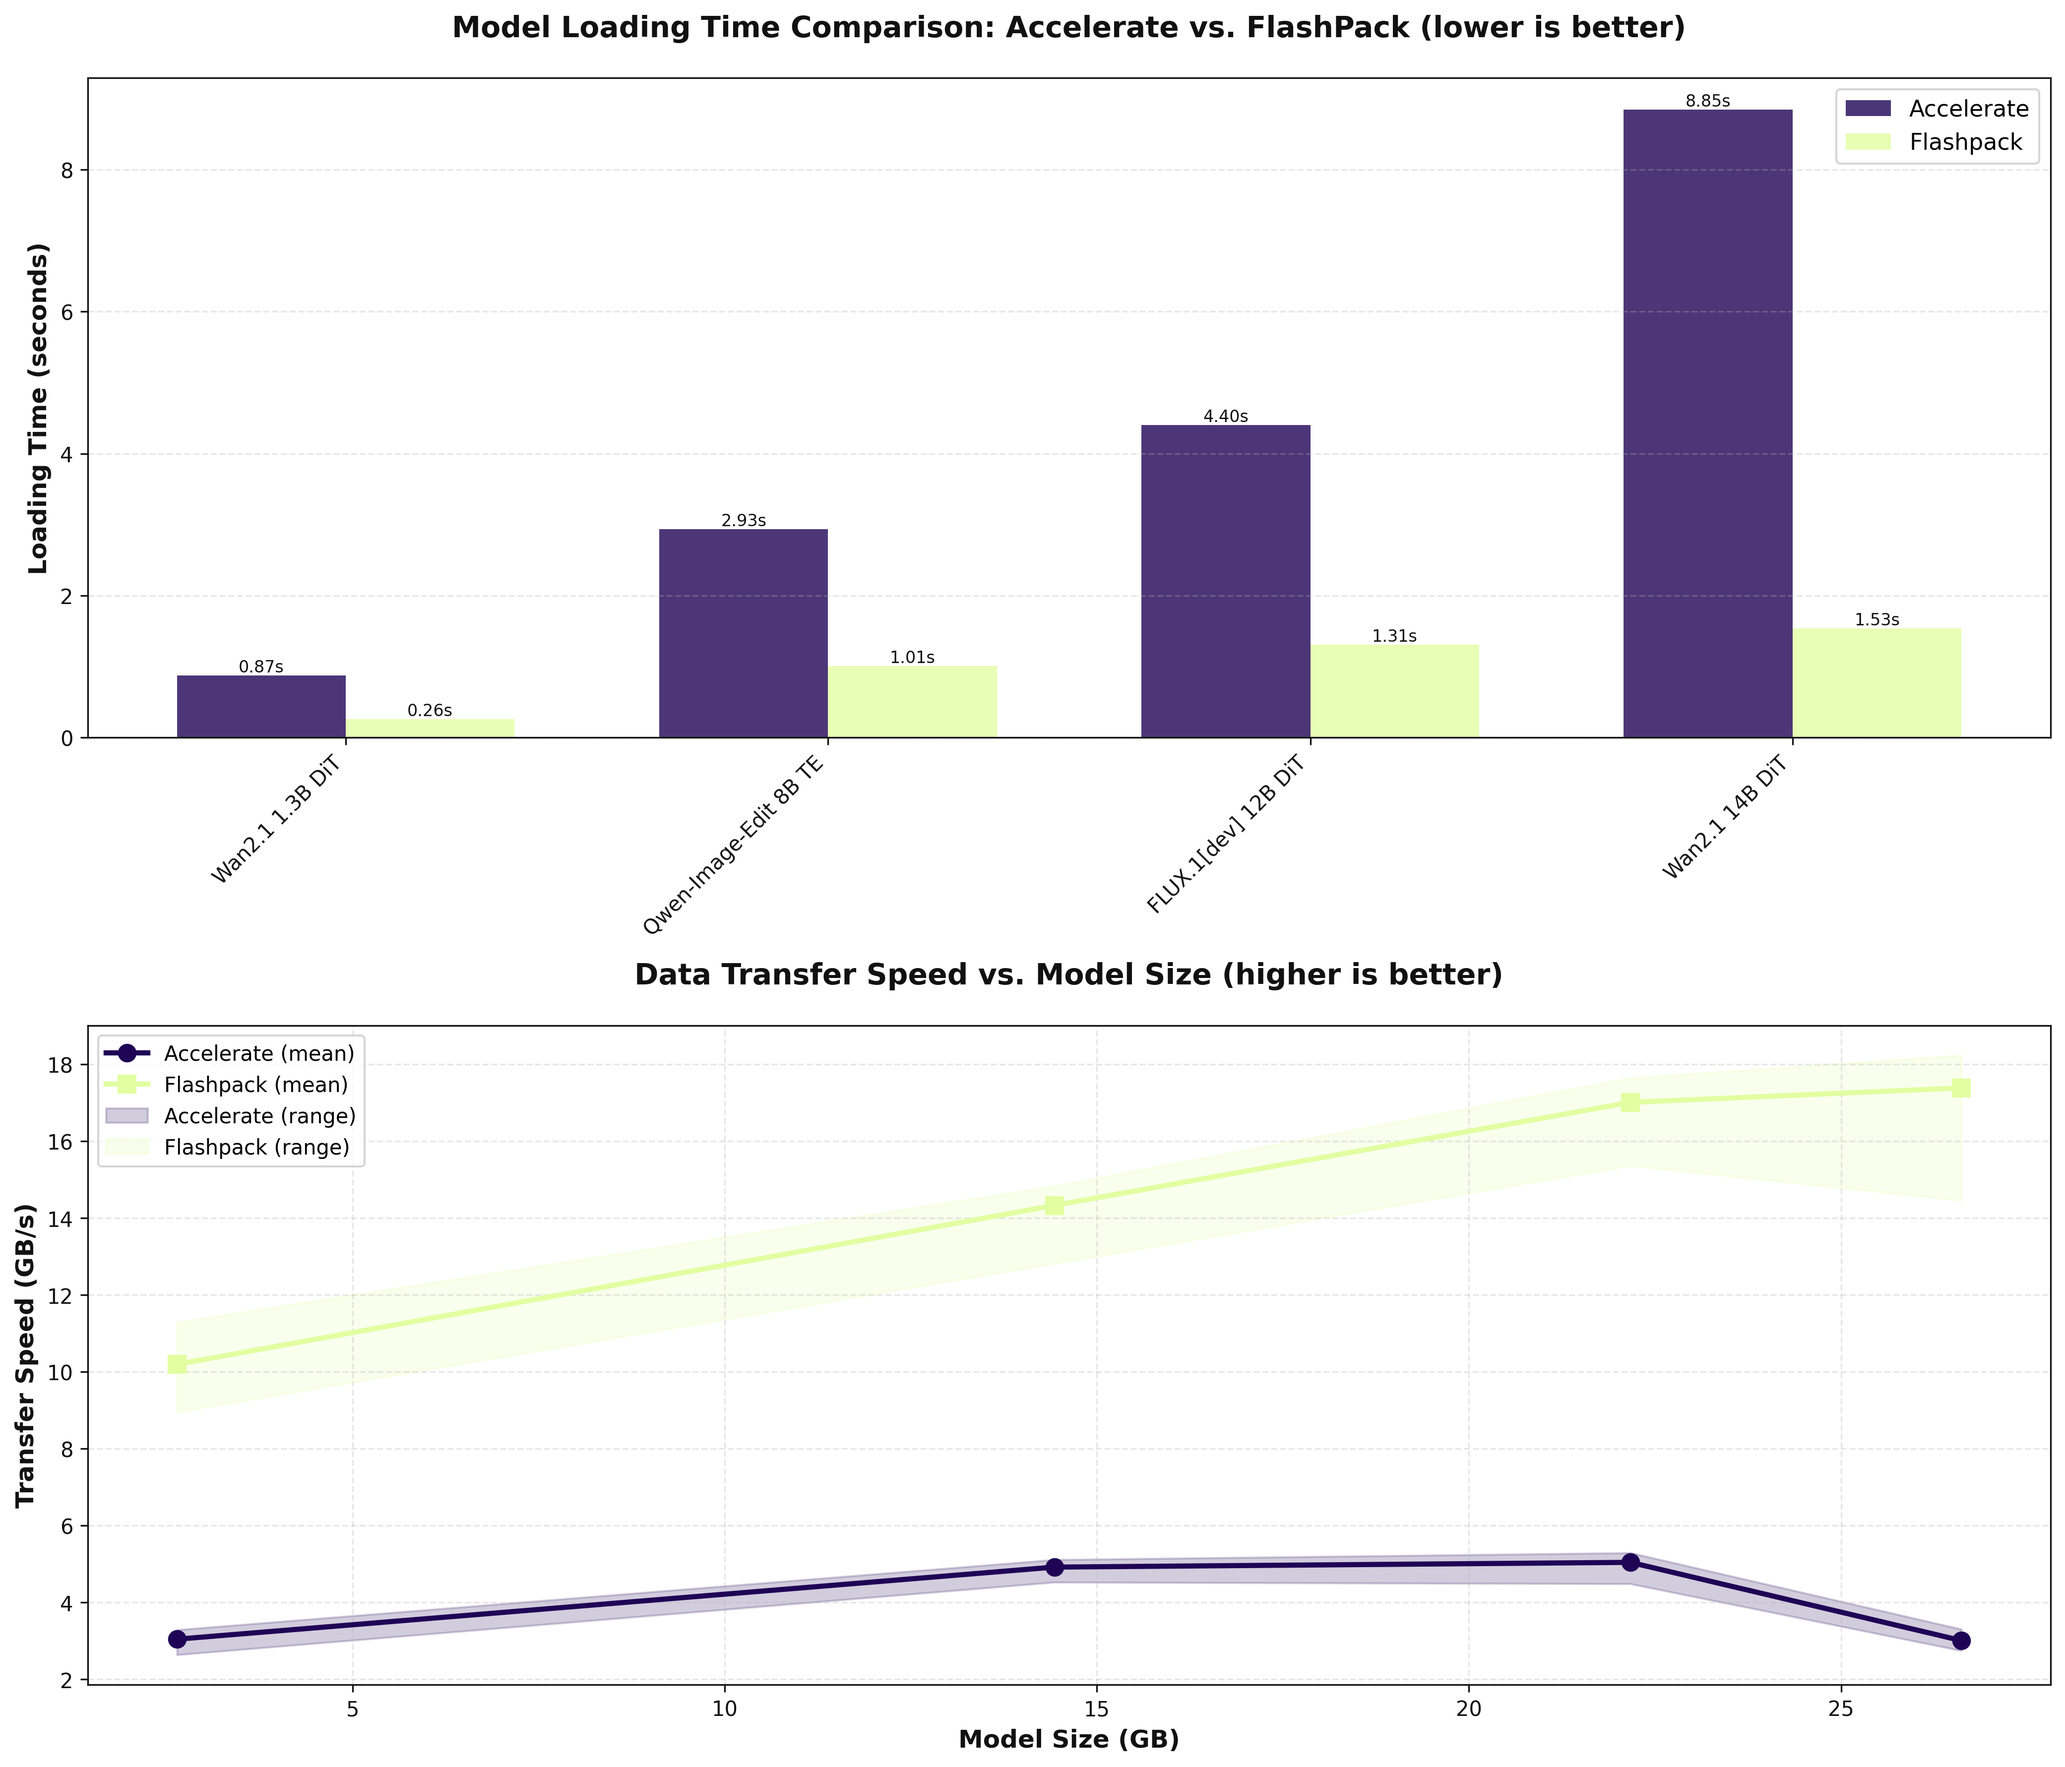
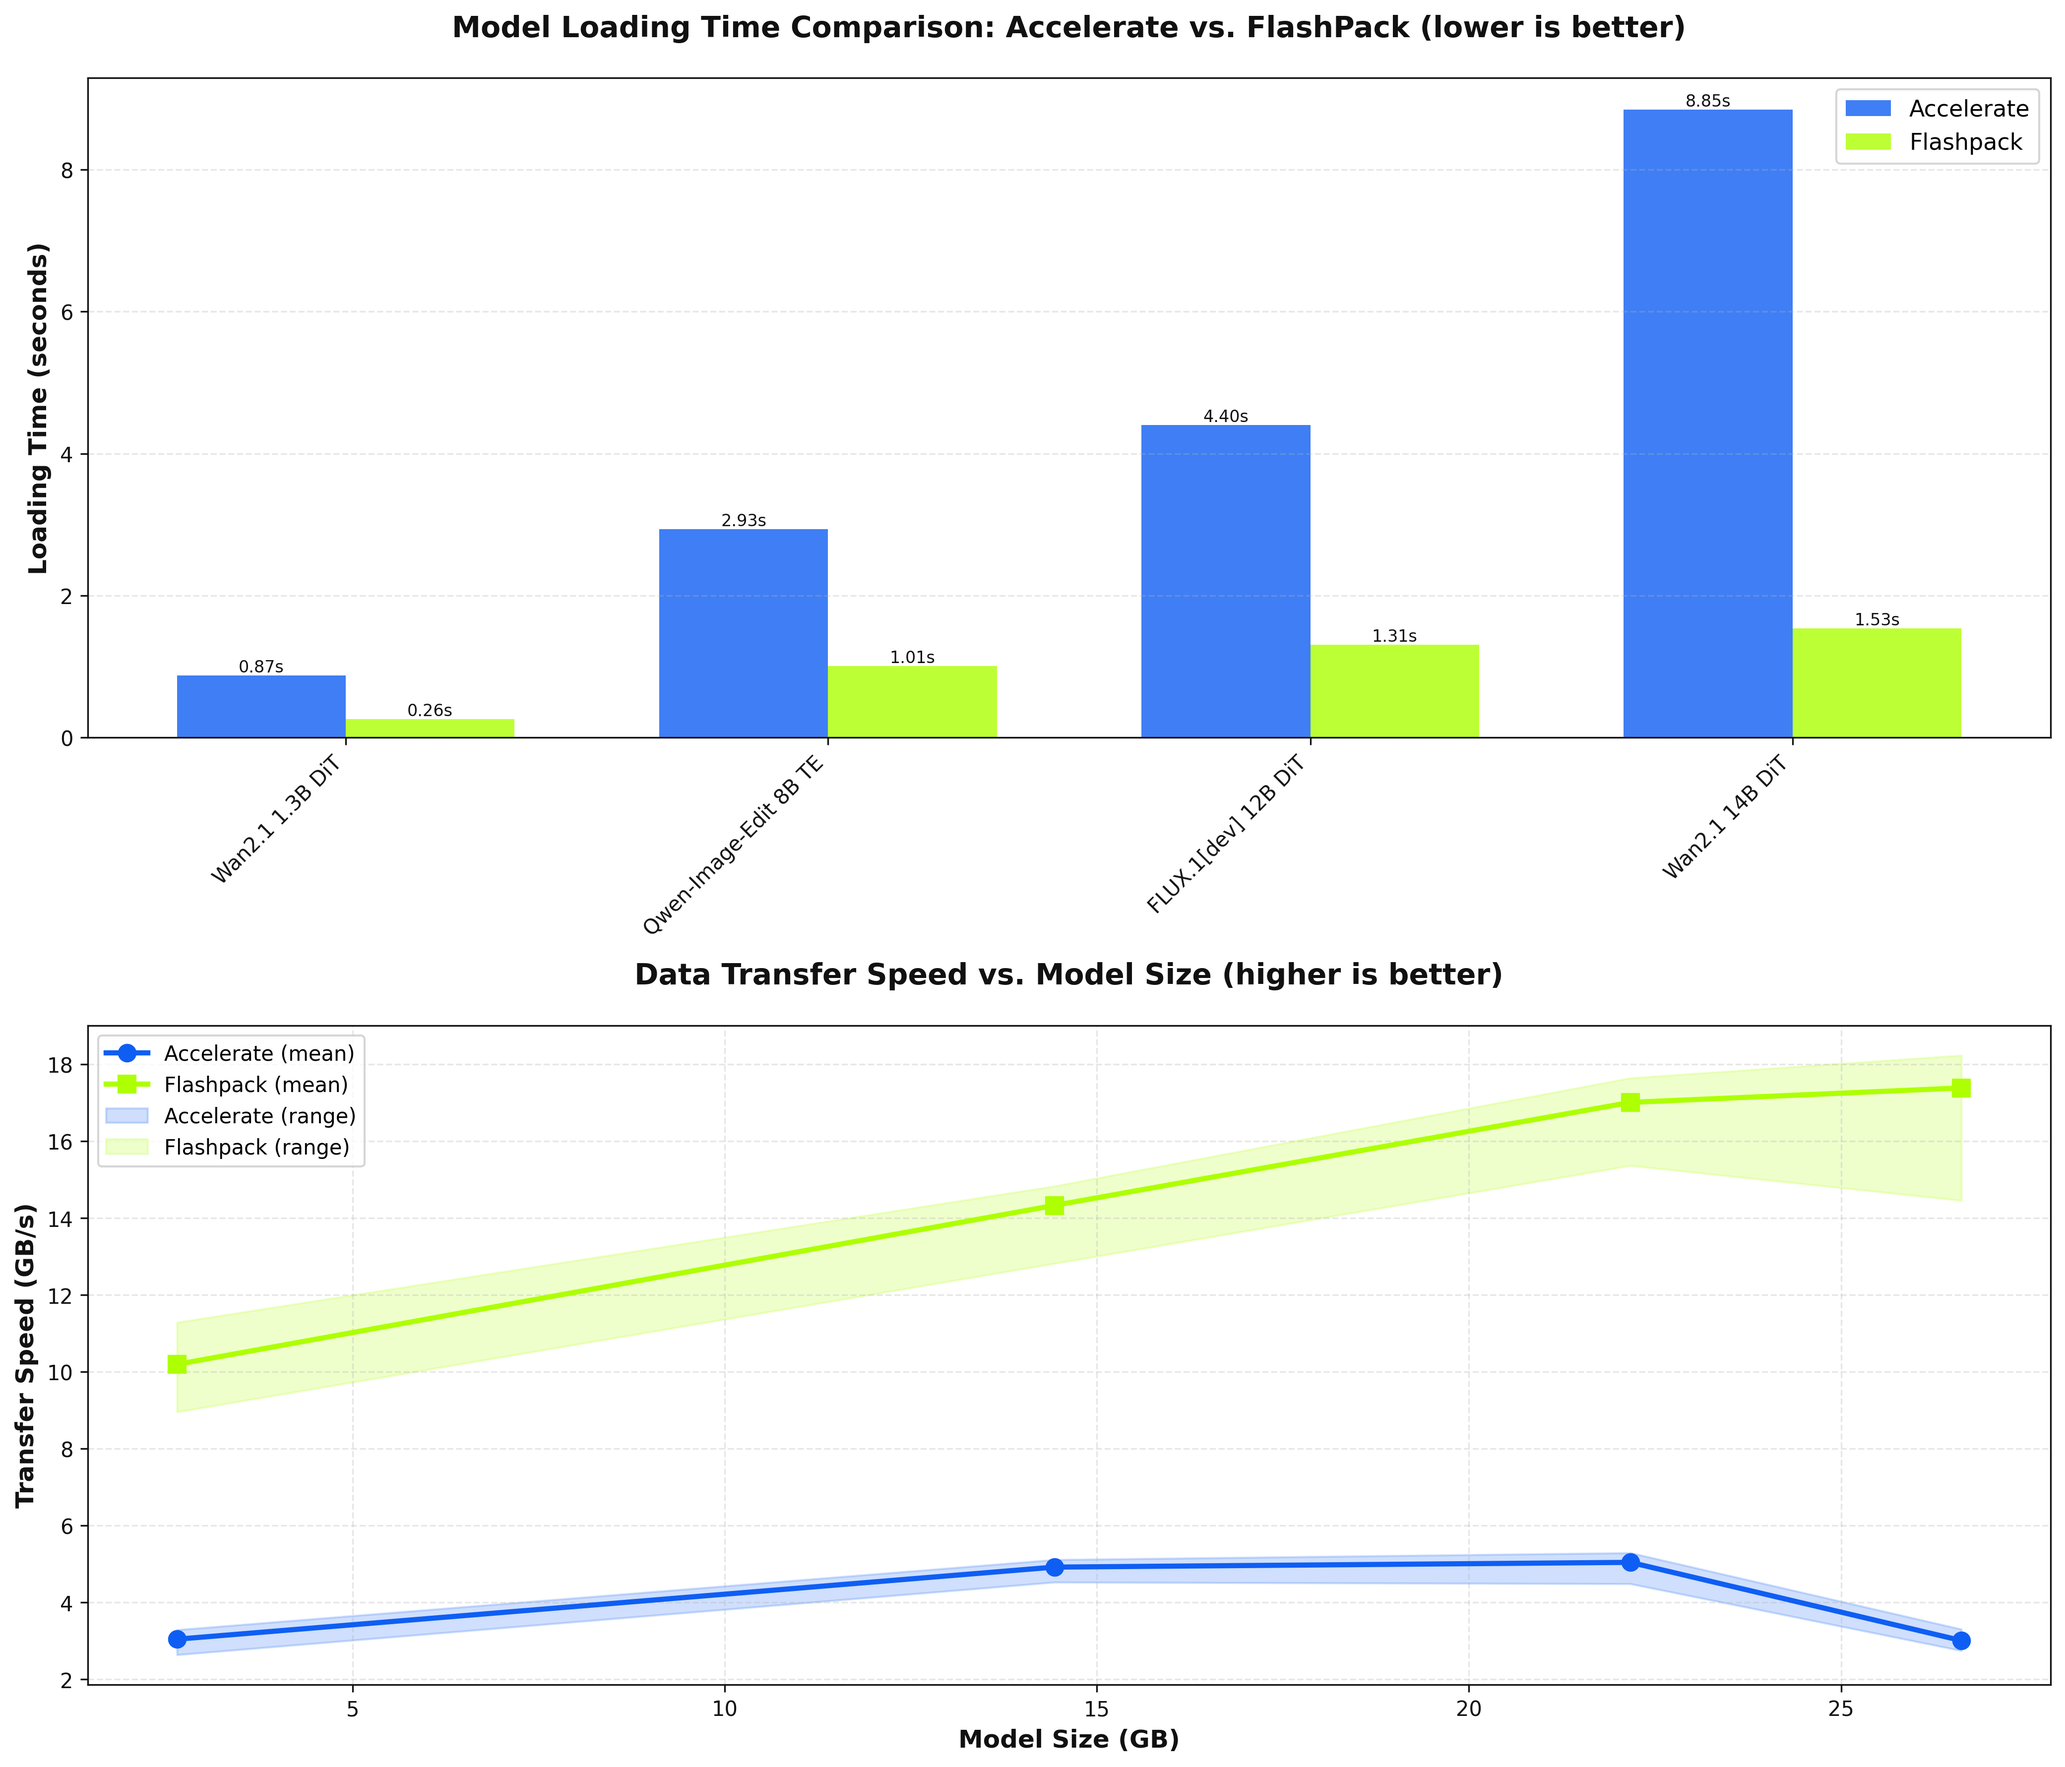
Feat: Add Baseline Speed Test Code (#5)
* add simple speed test, change bench colors to be a little easier to read

* add speed test graphics

* remove override, use correct colors

* right colors, dont override

* add to readme

diff --git a/tests/test_speed_comparison.py b/tests/test_speed_comparison.py
@@ -1,0 +1,139 @@
+import os
+import time
+
+import safetensors.torch
+import torch
+import matplotlib
+matplotlib.use("Agg")
+import matplotlib.pyplot as plt
+import numpy as np
+from flashpack import assign_from_file, pack_to_file
+from huggingface_hub import snapshot_download
+from transformers import GPT2Model
+
+repo_dir = snapshot_download("gpt2")
+pt_filename = os.path.join(repo_dir, "pytorch_model.bin")
+sf_filename = os.path.join(repo_dir, "model.safetensors")
+flashpack_filename = os.path.join(repo_dir, "model.flashpack")
+
+print(f"Preparing model")
+model = GPT2Model.from_pretrained("gpt2", device_map="cuda")
+if not os.path.exists(flashpack_filename):
+    pack_to_file(model, flashpack_filename, target_dtype=model.dtype)
+
+print("Running load time comparison (10 runs each)")
+
+def cuda_sync():
+    if torch.cuda.is_available():
+        torch.cuda.synchronize()
+
+num_runs = 10
+times_pt = []
+times_sf = []
+times_sf_fast = []
+times_fp = []
+
+# Repeat timings
+for i in range(num_runs):
+    # PyTorch .bin
+    os.environ.pop("SAFETENSORS_FAST_GPU", None)
+    start = time.time()
+    state_dict = torch.load(pt_filename, map_location="cuda")
+    model.load_state_dict(state_dict, strict=False)
+    cuda_sync()
+    end = time.time()
+    times_pt.append(end - start)
+
+    # Safetensors
+    start = time.time()
+    state_dict = safetensors.torch.load_file(sf_filename, device="cuda")
+    model.load_state_dict(state_dict, strict=False)
+    cuda_sync()
+    end = time.time()
+    times_sf.append(end - start)
+
+    # Safetensors (fast gpu)
+    os.environ["SAFETENSORS_FAST_GPU"] = "1"
+    start = time.time()
+    state_dict = safetensors.torch.load_file(sf_filename, device="cuda")
+    model.load_state_dict(state_dict, strict=False)
+    cuda_sync()
+    end = time.time()
+    times_sf_fast.append(end - start)
+
+    # Flashpack
+    start = time.time()
+    assign_from_file(model, flashpack_filename, device="cuda")
+    cuda_sync()
+    end = time.time()
+    times_fp.append(end - start)
+
+print("Timing complete. Means (s):")
+print(f"  pytorch: {np.mean(times_pt):.3f}")
+print(f"  safetensors: {np.mean(times_sf):.3f}")
+print(f"  safetensors (fast gpu): {np.mean(times_sf_fast):.3f}")
+print(f"  flashpack: {np.mean(times_fp):.3f}")
+
+# Plot configuration (aligned with scripts/plot-benchmark.py)
+accelerate_color = "#0f5ef3"
+flashpack_color = "#adff02"
+label_color = "#111111"
+
+labels = [
+    "pytorch",
+    "safetensors",
+    "safetensors (fast gpu)",
+    "flashpack",
+]
+means = [
+    float(np.mean(times_pt)),
+    float(np.mean(times_sf)),
+    float(np.mean(times_sf_fast)),
+    float(np.mean(times_fp)),
+]
+
+colors = [accelerate_color, accelerate_color, accelerate_color, flashpack_color]
+
+fig, ax = plt.subplots(figsize=(10, 4))
+ax.patch.set_facecolor((0, 0, 0, 0))
+
+# Style spines and ticks
+for spine in ax.spines.values():
+    spine.set_color(label_color)
+ax.xaxis.label.set_color(label_color)
+ax.yaxis.label.set_color(label_color)
+ax.tick_params(axis="x", colors=label_color)
+ax.tick_params(axis="y", colors=label_color)
+
+y_pos = np.arange(len(labels))
+bars = ax.barh(y_pos, means, color=colors, alpha=0.8)
+ax.set_yticks(y_pos)
+ax.set_yticklabels(labels, color=label_color)
+ax.invert_yaxis()  # top-to-bottom order as specified
+
+ax.set_xlabel("Loading Time (seconds)", fontsize=12, fontweight="bold", color=label_color)
+ax.set_title(
+    "load_state_dict() Time Comparison",
+    fontsize=14,
+    fontweight="bold",
+    pad=16,
+    color=label_color,
+)
+ax.grid(axis="x", alpha=0.3, linestyle="--")
+
+# Add value labels at the end of each bar
+for bar, val in zip(bars, means):
+    ax.text(
+        bar.get_width() + max(means) * 0.01,
+        bar.get_y() + bar.get_height() / 2,
+        f"{val:.2f}s",
+        va="center",
+        ha="left",
+        fontsize=9,
+        color=label_color,
+    )
+
+plt.tight_layout()
+output_path = "./speed_comparison.png"
+plt.savefig(output_path, dpi=300, bbox_inches="tight", transparent=True)
+print(f"Graph saved to: {output_path}")

diff --git a/scripts/plot_benchmark.py b/scripts/plot_benchmark.py
@@ -8,9 +8,9 @@ import numpy as np
 import pandas as pd
 
 # configuration
-accelerate_color = "#1f0455"
-flashpack_color = "#e2fea1"
-label_color = "#eeeeee"
+accelerate_color = "#0f5ef3"
+flashpack_color = "#adff02"
+label_color = "#111111"
 model_labels = {
     "Wan-AI/Wan2.1-T2V-1.3B-Diffusers": "Wan2.1 1.3B DiT",
     "Wan-AI/Wan2.1-T2V-14B-Diffusers": "Wan2.1 14B DiT",

diff --git a/README.md b/README.md
@@ -13,6 +13,16 @@
   <source media="(prefers-color-scheme: light)" srcset="https://github.com/fal-ai/flashpack/blob/main/media/benchmark-black.png?raw=true">
   <img alt="Benchmark Results" src="https://github.com/fal-ai/flashpack/blob/main/media/benchmark-black.png?raw=true">
 </picture>
+<em>Run this benchmark in `scripts/run_benchmark.py`</em>
+</div>
+
+<div align="center">
+<picture>
+  <source media="(prefers-color-scheme: dark)" srcset="https://github.com/fal-ai/flashpack/blob/main/media/load-state-dict-comparison-white.png?raw=true">
+  <source media="(prefers-color-scheme: light)" srcset="https://github.com/fal-ai/flashpack/blob/main/media/load-state-dict-comparison-black?raw=true">
+  <img alt="Benchmark Results" src="https://github.com/fal-ai/flashpack/blob/main/media/load-state-dict-comparison-black.png?raw=true">
+</picture>
+<em>Run this benchmark in `tests/test_speed_comparison.py`</em>
 </div>
 
 # Integration Guide
